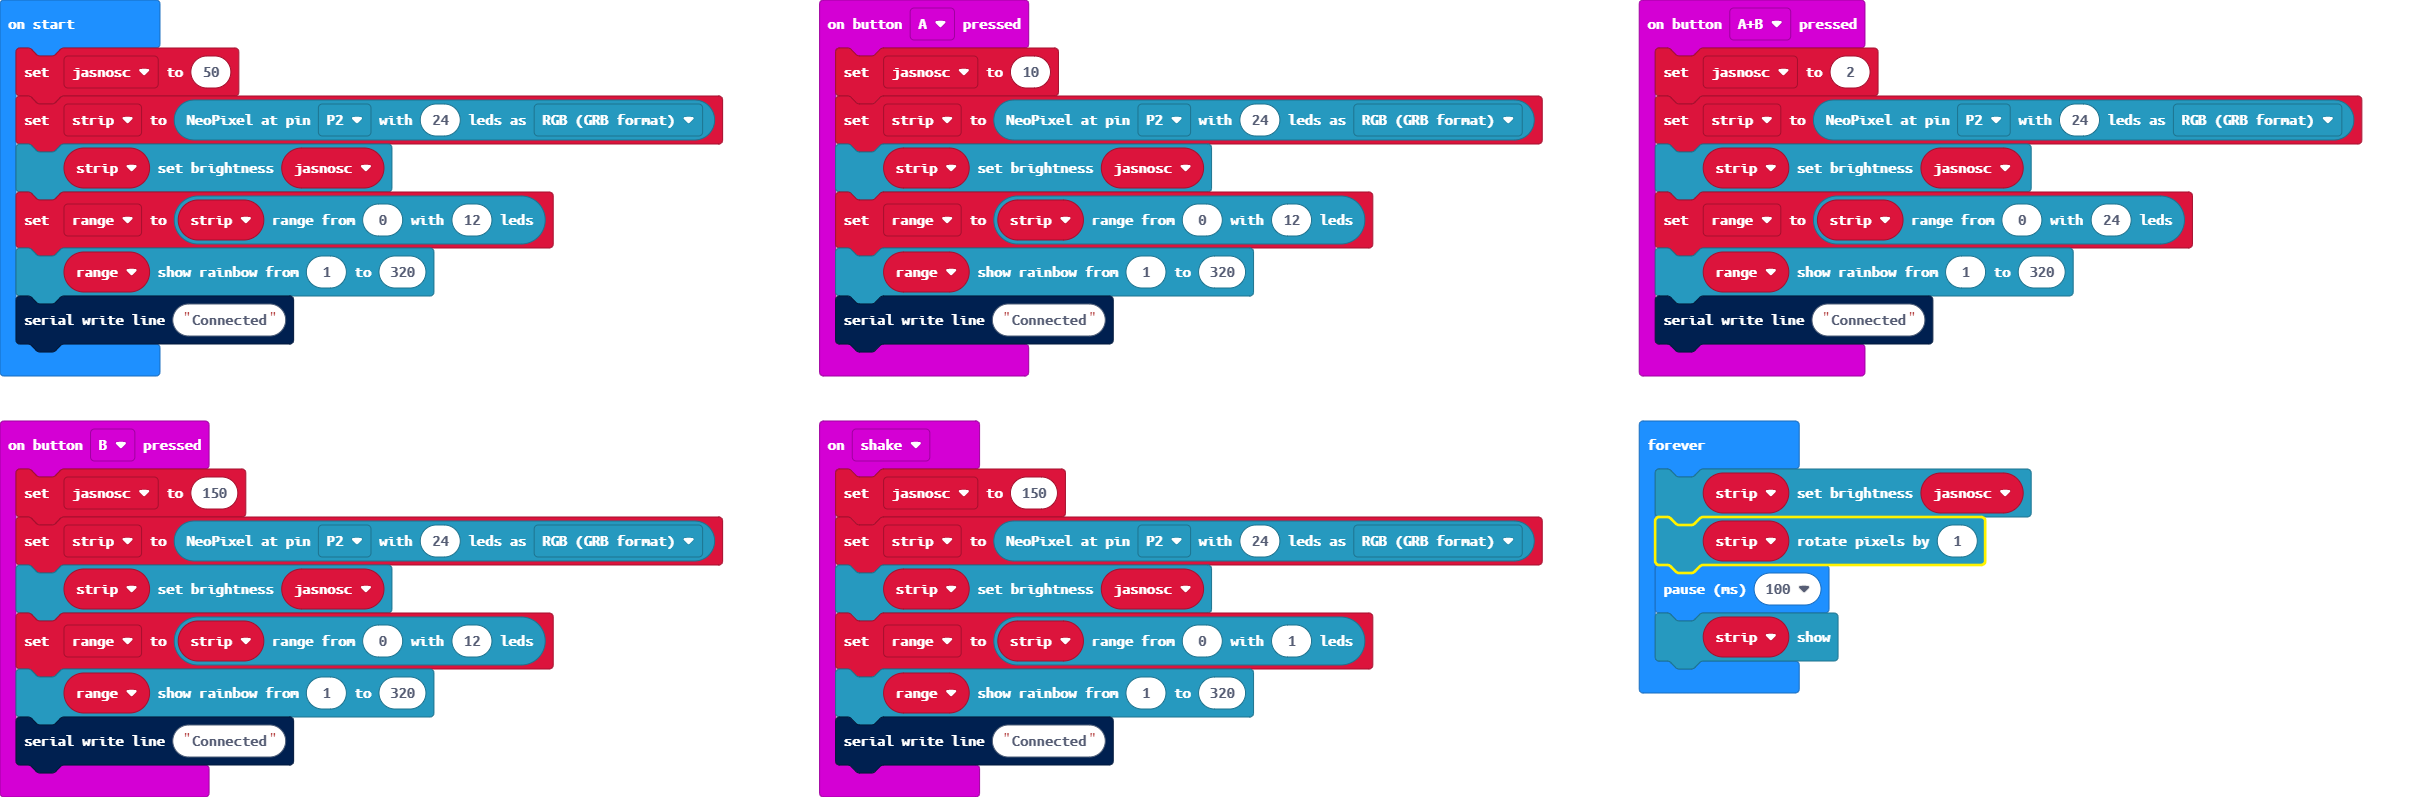
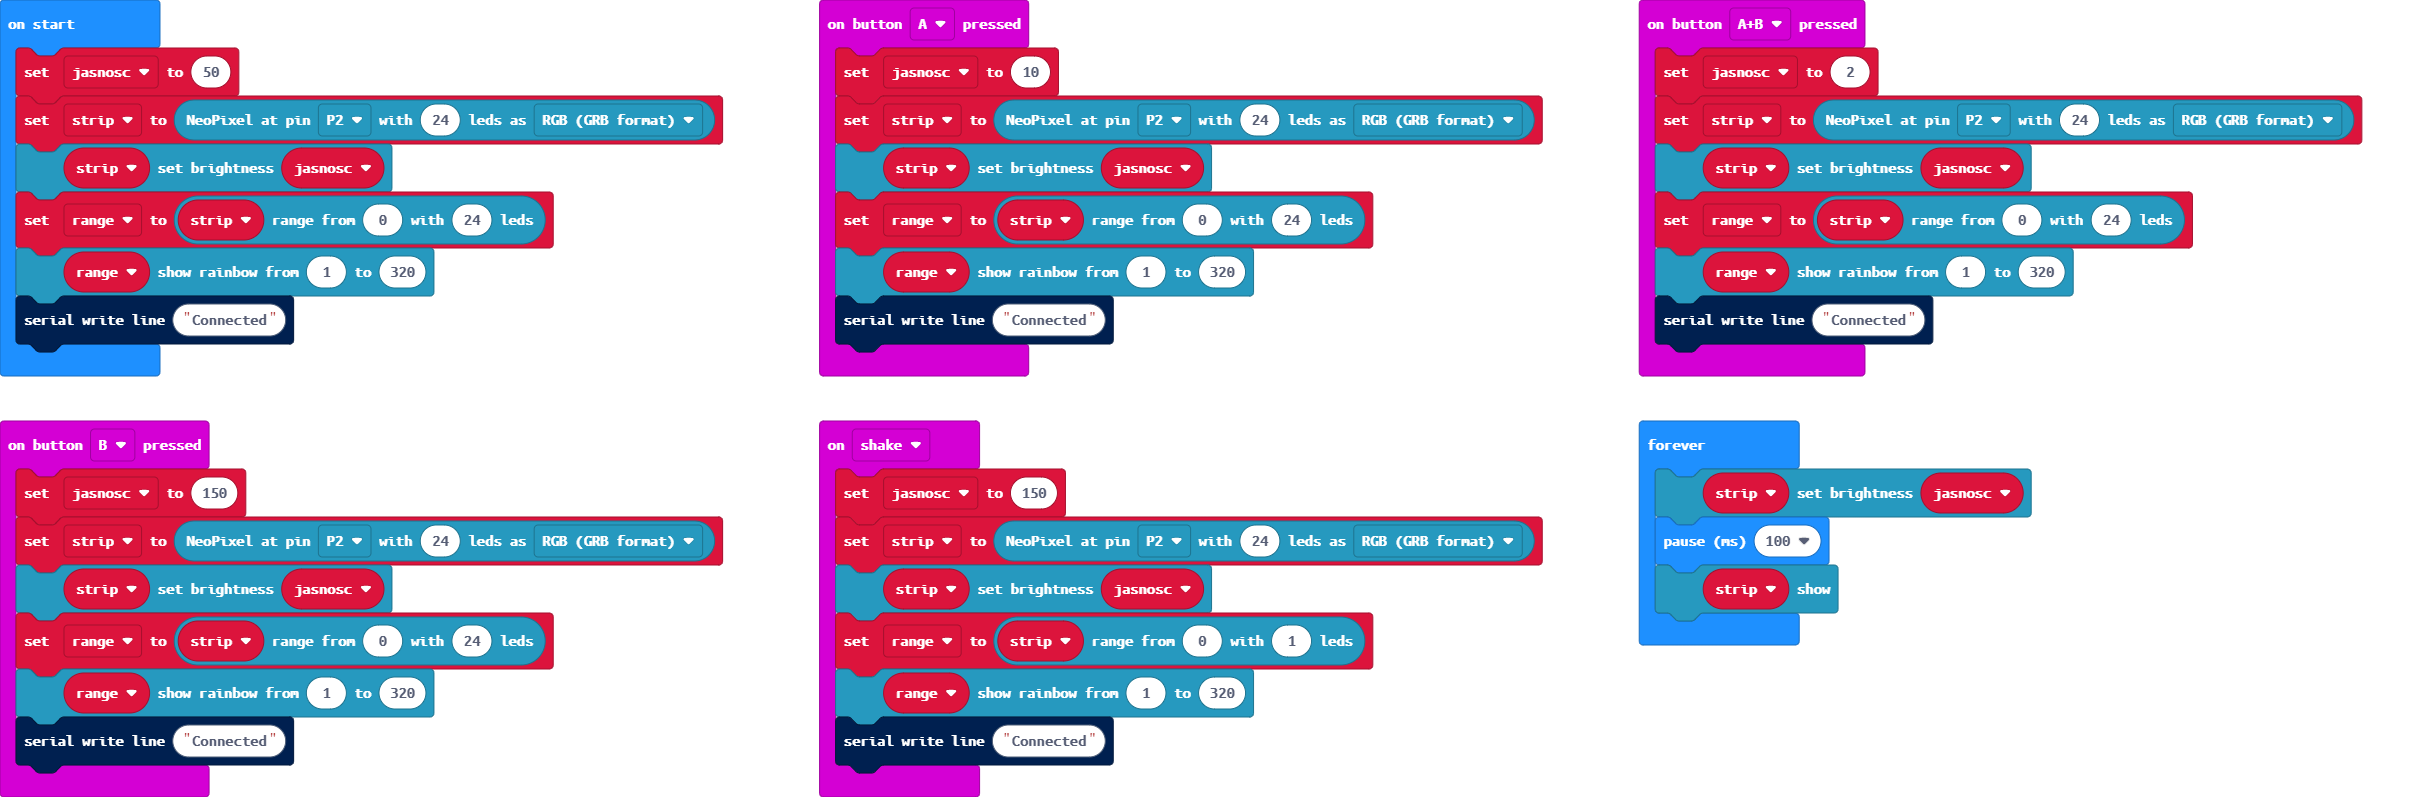
Update main.blocks, main.ts

Changed region(s): [[0.6524, 0.6324, 0.8389, 0.8733]]

diff --git a/main.ts b/main.ts
@@ -2,7 +2,7 @@ input.onButtonPressed(Button.A, function () {
     jasnosc = 10
     strip = neopixel.create(DigitalPin.P2, 24, NeoPixelMode.RGB)
     strip.setBrightness(jasnosc)
-    range = strip.range(0, 12)
+    range = strip.range(0, 24)
     range.showRainbow(1, 320)
     serial.writeLine("Connected")
 })
@@ -18,7 +18,7 @@ input.onButtonPressed(Button.B, function () {
     jasnosc = 150
     strip = neopixel.create(DigitalPin.P2, 24, NeoPixelMode.RGB)
     strip.setBrightness(jasnosc)
-    range = strip.range(0, 12)
+    range = strip.range(0, 24)
     range.showRainbow(1, 320)
     serial.writeLine("Connected")
 })
@@ -36,12 +36,11 @@ let jasnosc = 0
 jasnosc = 50
 strip = neopixel.create(DigitalPin.P2, 24, NeoPixelMode.RGB)
 strip.setBrightness(jasnosc)
-range = strip.range(0, 12)
+range = strip.range(0, 24)
 range.showRainbow(1, 320)
 serial.writeLine("Connected")
 basic.forever(function () {
     strip.setBrightness(jasnosc)
-    strip.rotate(1)
     basic.pause(100)
     strip.show()
 })
